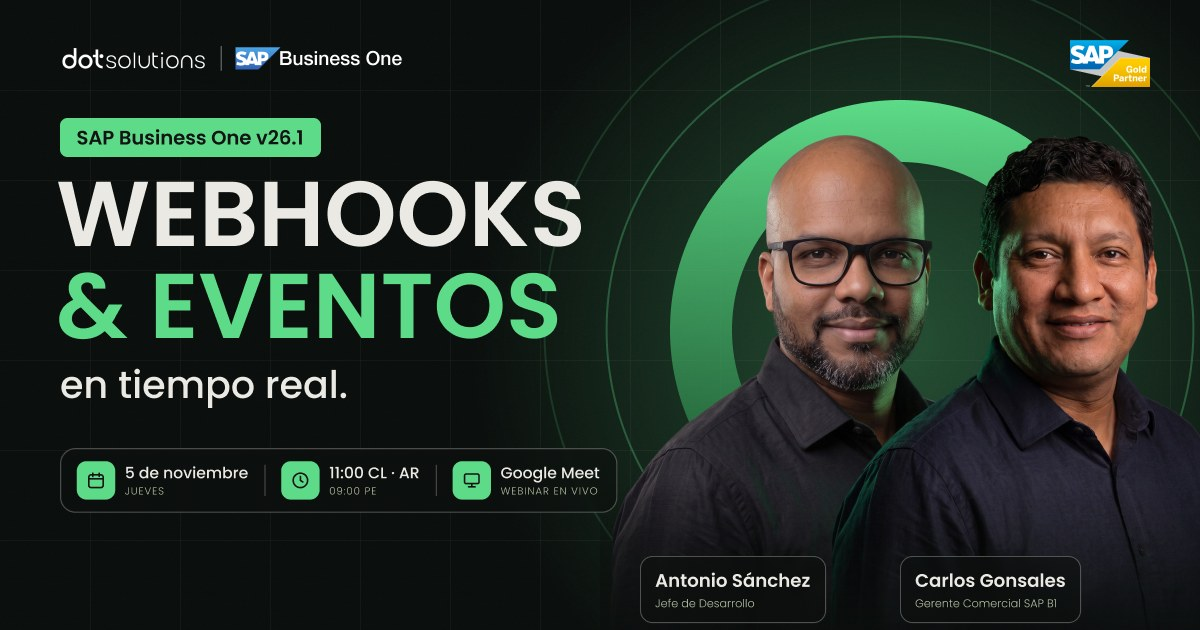
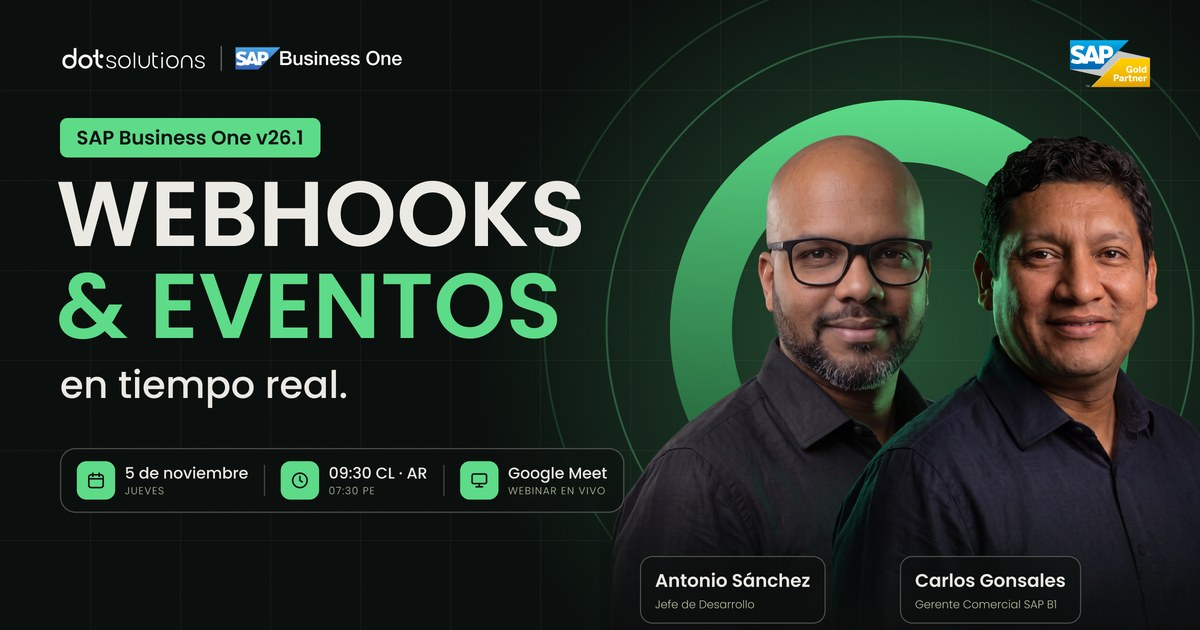
Nuevo horario oficial: 09:30 CL · AR / 07:30 PE (landing, mailings, .ics)

Changed region(s): [[0.2467, 0.7238, 0.5242, 0.8143], [0.7708, 0.9349, 0.8942, 0.9952], [0.555, 0.9349, 0.6783, 0.9952]]

diff --git a/index.html b/index.html
@@ -6,7 +6,7 @@
 <title>Webinar SAP Business One v26.1 · Webhooks & Eventos en Tiempo Real · DOT Solutions</title>
 <meta name="description" content="Webinar en vivo, jueves 5 de noviembre. Descubre cómo los Webhooks de SAP Business One v26.1 notifican a tus sistemas cuando ocurre un evento y conectan tu ERP en tiempo real con e-commerce, CRM, WMS, aplicaciones móviles y portales de clientes.">
 <meta property="og:title" content="SAP Business One v26.1: Webhooks & Eventos en Tiempo Real">
-<meta property="og:description" content="Webinar en vivo · Jueves 5 de noviembre · 11:00 CL · 09:00 PE · 11:00 AR · Google Meet">
+<meta property="og:description" content="Webinar en vivo · Jueves 5 de noviembre · 09:30 CL · 09:30 AR · 07:30 PE · Google Meet">
 <meta name="theme-color" content="#0B0F0D">
 <link rel="preconnect" href="https://fonts.googleapis.com">
 <link rel="preconnect" href="https://fonts.gstatic.com" crossorigin>
@@ -521,7 +521,7 @@ footer{border-top:1px solid var(--line);padding:56px 0 40px}
       <p class="lead" data-hero>Tu ERP ya no pregunta: se entera. Descubre cómo los Webhooks de SAP Business One v26.1 notifican a tus sistemas <b style="color:var(--light);font-weight:500">cuando ocurre un evento</b> y conectan tu ERP con e-commerce, CRM, WMS, aplicaciones móviles y portales de clientes.</p>
       <div class="hero-meta" data-hero>
         <div class="meta glass"><span class="ic"><svg viewBox="0 0 24 24" fill="none" stroke-width="2" stroke-linecap="round" stroke-linejoin="round"><rect x="3" y="5" width="18" height="16" rx="3"/><path d="M3 10h18M8 3v4M16 3v4"/></svg></span><div><b>Jueves 5 de noviembre</b><span>2026</span></div></div>
-        <div class="meta glass"><span class="ic"><svg viewBox="0 0 24 24" fill="none" stroke-width="2" stroke-linecap="round" stroke-linejoin="round"><circle cx="12" cy="12" r="9"/><path d="M12 7v5l3 2"/></svg></span><div><b>11:00 CL · AR</b><span>09:00 PE</span></div></div>
+        <div class="meta glass"><span class="ic"><svg viewBox="0 0 24 24" fill="none" stroke-width="2" stroke-linecap="round" stroke-linejoin="round"><circle cx="12" cy="12" r="9"/><path d="M12 7v5l3 2"/></svg></span><div><b>09:30 CL · AR</b><span>07:30 PE</span></div></div>
         <div class="meta glass"><span class="ic"><svg viewBox="0 0 24 24" fill="none" stroke-width="2" stroke-linecap="round" stroke-linejoin="round"><rect x="3" y="4" width="18" height="12" rx="2"/><path d="M8 20h8M12 16v4"/></svg></span><div><b>Google Meet</b><span>Online · En vivo</span></div></div>
       </div>
       <div class="hosts" data-hero>
@@ -713,7 +713,7 @@ footer{border-top:1px solid var(--line);padding:56px 0 40px}
       <p class="lead" data-final>Webhooks y arquitectura orientada a eventos en SAP Business One v26.1, con espacio de dudas y consultas con los expositores. Si quieres, también puedes pedir un diagnóstico estratégico con un Consultor Senior.</p>
       <div class="hero-meta" data-final>
         <div class="meta glass"><span class="ic"><svg viewBox="0 0 24 24" fill="none" stroke-width="2" stroke-linecap="round" stroke-linejoin="round"><rect x="3" y="5" width="18" height="16" rx="3"/><path d="M3 10h18M8 3v4M16 3v4"/></svg></span><div><b>Jueves 5 de noviembre</b><span>2026</span></div></div>
-        <div class="meta glass"><span class="ic"><svg viewBox="0 0 24 24" fill="none" stroke-width="2" stroke-linecap="round" stroke-linejoin="round"><circle cx="12" cy="12" r="9"/><path d="M12 7v5l3 2"/></svg></span><div><b>11:00 CL · AR</b><span>09:00 PE</span></div></div>
+        <div class="meta glass"><span class="ic"><svg viewBox="0 0 24 24" fill="none" stroke-width="2" stroke-linecap="round" stroke-linejoin="round"><circle cx="12" cy="12" r="9"/><path d="M12 7v5l3 2"/></svg></span><div><b>09:30 CL · AR</b><span>07:30 PE</span></div></div>
         <div class="meta glass"><span class="ic"><svg viewBox="0 0 24 24" fill="none" stroke-width="2" stroke-linecap="round" stroke-linejoin="round"><rect x="3" y="4" width="18" height="12" rx="2"/><path d="M8 20h8M12 16v4"/></svg></span><div><b>Google Meet</b><span>Online · En vivo</span></div></div>
       </div>
       <div class="hero-cta" data-final>
@@ -804,9 +804,9 @@ const CONFIG = {
   endpoint: '',
   event: {
     title: 'Webinar SAP Business One v26.1: Webhooks & Eventos en Tiempo Real',
-    startUTC: '20261105T140000Z',   // 11:00 CL (UTC-3)
-    endUTC:   '20261105T150000Z',
-    start: new Date('2026-11-05T11:00:00-03:00'),
+    startUTC: '20261105T123000Z',   // 09:30 CL (UTC-3)
+    endUTC:   '20261105T133000Z',
+    start: new Date('2026-11-05T09:30:00-03:00'),
     details: 'Webinar en vivo de DOT Solutions. El enlace de Google Meet llegará a tu correo.',
     location: 'Google Meet (online)'
   },

diff --git a/email/confirmacion.html b/email/confirmacion.html
@@ -48,7 +48,7 @@
 
 <!-- Preheader (texto de vista previa en la bandeja) -->
 <div style="display:none;max-height:0;overflow:hidden;mso-hide:all;font-size:1px;line-height:1px;color:#0B0F0D;">
-  Tu cupo está confirmado: jueves 5 de noviembre · 11:00 CL / AR · 09:00 PE · Google Meet.&nbsp;&#847;&nbsp;&#847;&nbsp;&#847;&nbsp;&#847;&nbsp;&#847;&nbsp;&#847;&nbsp;&#847;&nbsp;&#847;&nbsp;&#847;&nbsp;&#847;&nbsp;&#847;&nbsp;&#847;
+  Tu cupo está confirmado: jueves 5 de noviembre · 09:30 CL / AR · 07:30 PE · Google Meet.&nbsp;&#847;&nbsp;&#847;&nbsp;&#847;&nbsp;&#847;&nbsp;&#847;&nbsp;&#847;&nbsp;&#847;&nbsp;&#847;&nbsp;&#847;&nbsp;&#847;&nbsp;&#847;&nbsp;&#847;
 </div>
 
 <table role="presentation" width="100%" cellpadding="0" cellspacing="0" border="0" bgcolor="#0B0F0D" style="background:#0B0F0D;">
@@ -107,7 +107,7 @@
         </tr><tr>
           <td width="48" valign="middle" style="padding:0 0 16px;"><img src="https://jpmenenm.github.io/webinar-sapb1-v26/email/img/ic-clock.png" width="40" height="40" alt="" style="width:40px;height:40px;"></td>
           <td valign="middle" class="f" style="padding:0 0 16px 12px;font-family:'Poppins',Arial,sans-serif;">
-            <div style="font-size:16px;line-height:22px;color:#EBE9E3;font-weight:500;">11:00 hrs <span style="color:#5DDB88;">CL · AR</span> &nbsp;·&nbsp; 09:00 hrs <span style="color:#5DDB88;">PE</span></div>
+            <div style="font-size:16px;line-height:22px;color:#EBE9E3;font-weight:500;">09:30 hrs <span style="color:#5DDB88;">CL · AR</span> &nbsp;·&nbsp; 07:30 hrs <span style="color:#5DDB88;">PE</span></div>
             <div style="font-size:12px;line-height:18px;color:#8E968C;letter-spacing:1px;">HORARIO</div>
           </td>
         </tr><tr>
@@ -130,7 +130,7 @@
       <tr><td style="padding:0 22px 22px;">
         <table role="presentation" width="100%" cellpadding="0" cellspacing="0" border="0"><tr>
           <td class="stack stack-pad btn-ghost" width="50%" style="padding-right:6px;">
-            <a href="https://calendar.google.com/calendar/render?action=TEMPLATE&amp;text=Webinar%20SAP%20Business%20One%20v26.1%3A%20Webhooks%20%26%20Eventos%20en%20Tiempo%20Real&amp;dates=20261105T140000Z%2F20261105T150000Z&amp;details=Webinar%20en%20vivo%20de%20DOT%20Solutions.%20El%20enlace%20de%20Google%20Meet%20est%C3%A1%20en%20tu%20correo%20de%20confirmaci%C3%B3n.&amp;location=Google%20Meet" target="_blank" class="f" style="display:block;text-align:center;padding:11px 10px;border:1px solid #3A403C;border-radius:999px;font-family:'Poppins',Arial,sans-serif;font-size:13px;font-weight:500;color:#EBE9E3;text-decoration:none;">+ Google Calendar</a>
+            <a href="https://calendar.google.com/calendar/render?action=TEMPLATE&amp;text=Webinar%20SAP%20Business%20One%20v26.1%3A%20Webhooks%20%26%20Eventos%20en%20Tiempo%20Real&amp;dates=20261105T123000Z%2F20261105T133000Z&amp;details=Webinar%20en%20vivo%20de%20DOT%20Solutions.%20El%20enlace%20de%20Google%20Meet%20est%C3%A1%20en%20tu%20correo%20de%20confirmaci%C3%B3n.&amp;location=Google%20Meet" target="_blank" class="f" style="display:block;text-align:center;padding:11px 10px;border:1px solid #3A403C;border-radius:999px;font-family:'Poppins',Arial,sans-serif;font-size:13px;font-weight:500;color:#EBE9E3;text-decoration:none;">+ Google Calendar</a>
           </td>
           <td class="stack btn-ghost" width="50%" style="padding-left:6px;">
             <a href="https://jpmenenm.github.io/webinar-sapb1-v26/email/invite.ics" target="_blank" class="f" style="display:block;text-align:center;padding:11px 10px;border:1px solid #3A403C;border-radius:999px;font-family:'Poppins',Arial,sans-serif;font-size:13px;font-weight:500;color:#EBE9E3;text-decoration:none;">+ Outlook / Apple (.ics)</a>

diff --git a/email/invitacion.html b/email/invitacion.html
@@ -106,7 +106,7 @@
           <td class="stack stack-pad" width="33%" valign="top" style="padding:0 6px 14px;">
             <table role="presentation" cellpadding="0" cellspacing="0" border="0"><tr>
               <td valign="middle"><img src="https://jpmenenm.github.io/webinar-sapb1-v26/email/img/ic-clock.png" width="36" height="36" alt="" style="width:36px;height:36px;"></td>
-              <td valign="middle" class="f" style="padding-left:10px;font-family:'Poppins',Arial,sans-serif;"><div style="font-size:14px;line-height:19px;color:#EBE9E3;font-weight:500;">11:00 <span style="color:#5DDB88;">CL · AR</span></div><div style="font-size:11px;line-height:16px;color:#8E968C;letter-spacing:1px;">09:00 PE</div></td>
+              <td valign="middle" class="f" style="padding-left:10px;font-family:'Poppins',Arial,sans-serif;"><div style="font-size:14px;line-height:19px;color:#EBE9E3;font-weight:500;">09:30 <span style="color:#5DDB88;">CL · AR</span></div><div style="font-size:11px;line-height:16px;color:#8E968C;letter-spacing:1px;">07:30 PE</div></td>
             </tr></table>
           </td>
           <td class="stack stack-pad" width="33%" valign="top" style="padding:0 0 14px 6px;">
@@ -272,7 +272,7 @@
         </tr></table>
       </td></tr>
       <tr><td class="f" style="padding:12px 30px 6px;font-family:'Poppins',Arial,sans-serif;font-size:14px;line-height:22px;color:#3E423D;">
-        <strong style="color:#141414;font-weight:600;">11:00 hrs</strong> Chile y Argentina · <strong style="color:#141414;font-weight:600;">09:00 hrs</strong> Perú. Al final habrá un espacio de dudas y consultas con los expositores.
+        <strong style="color:#141414;font-weight:600;">09:30 hrs</strong> Chile y Argentina · <strong style="color:#141414;font-weight:600;">07:30 hrs</strong> Perú. Al final habrá un espacio de dudas y consultas con los expositores.
       </td></tr>
       <tr><td style="padding:20px 30px 30px;">
         <table role="presentation" cellpadding="0" cellspacing="0" border="0"><tr>
